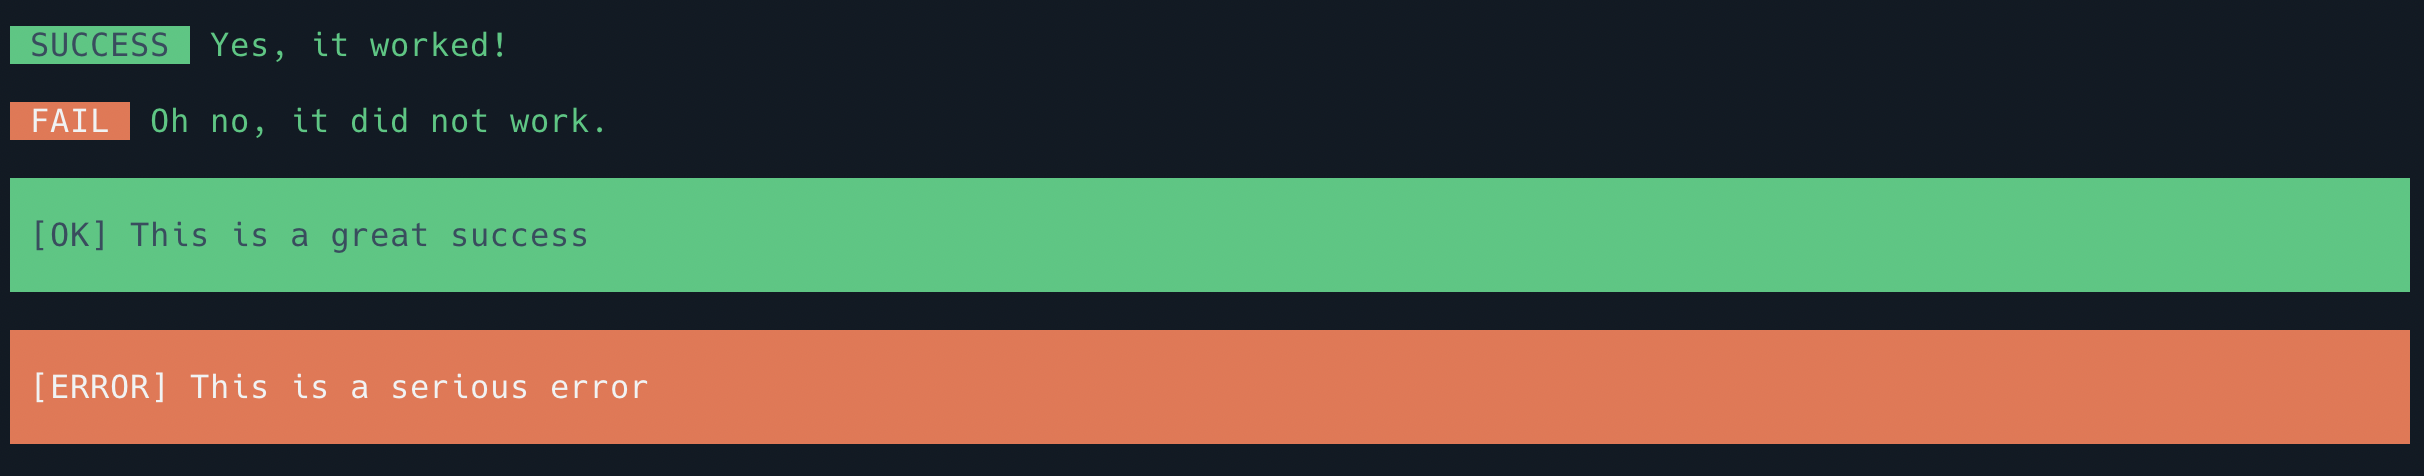
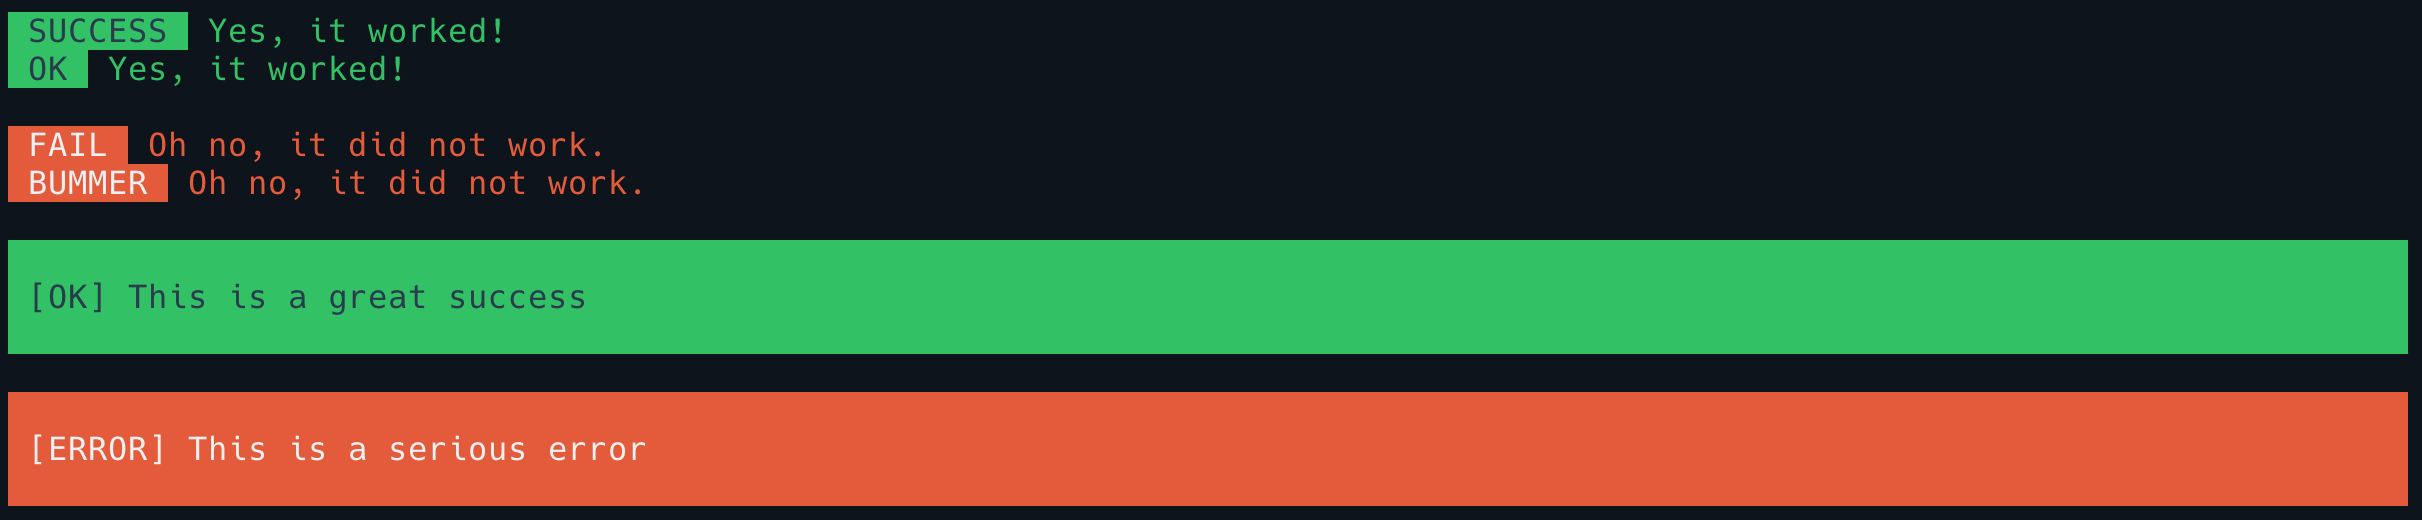
Update readme and example image

diff --git a/README.md b/README.md
@@ -41,8 +41,10 @@ You then have access to the following extra methods:
 
 ```php
 $this->success('Yes, it worked!');
+$this->success('Yes, it worked!', 'OK');
 
 $this->fail('Oh no, it did not work.');
+$this->fail('Oh no, it did not work.', 'BUMMER');
 
 $this->successBlock('This is a great success');
 
